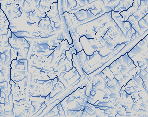
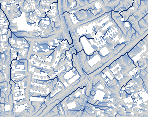
fix(wetgrid): render masked cells transparent, align tests, regenerate openapi

diff --git a/backend/tests/test_constants.py b/backend/tests/test_constants.py
@@ -166,41 +166,51 @@ def test_wetgrid_data_is_not_clipped_by_its_own_render() -> None:
     )
 
 
-def test_wetgrid_png_and_npy_agree_wherever_the_png_is_not_clipped() -> None:
-    """Wherever alpha has not saturated, the render must match the data.
+def test_wetgrid_png_is_a_monotonic_flow_accumulation_render() -> None:
+    """The flood PNG paints *where rain flows*, deeper where more flows.
 
-    The PNG is a visualisation of the .npy, so in the unsaturated range the two
-    must agree to within the alpha quantisation step. A mismatch means the two
-    artefacts came from different runs, which is exactly the sort of drift that
-    makes a screenshot disagree with the number printed beside it.
+    The overlay was switched from a ponding-depth ramp to a D8 flow-accumulation
+    ramp: each cell is coloured by how much upstream drainage passes through it,
+    log-scaled, so "deeper blue == more water passing through". That transform is
+    deliberately lossy (log + percentile anchors + gamma), so the old
+    alpha-reverses-to-depth assertion no longer applies. What *is* invariant, and
+    what a mismatch between the committed PNG and the accumulation field would
+    break, is the ordering: a cell that accumulates more flow must render no
+    lighter than one that accumulates less. This pins that monotonicity against
+    the committed artefacts, and that the building-masked cells render blank.
     """
     import numpy as np
     from PIL import Image
 
     rasters = BACKEND_DIR / "data" / "rasters"
-    npy = rasters / "wetgrid_hsk.npy"
-    meta = rasters / "wetgrid_hsk.json"
+    acc_npy = rasters / "flow_accum_hsk.npy"
     png = rasters / "wetgrid_hsk.png"
-    if not (npy.exists() and meta.exists() and png.exists()):
+    if not (acc_npy.exists() and png.exists()):
         print("      (skipped: run scripts/make_wetgrid.py first)")
         return
 
-    render = json.loads(meta.read_text())["render"]
-    lo, hi = float(render["minVisibleDepthM"]), float(render["maxVisibleDepthM"])
+    acc = np.load(acc_npy).astype(np.float64)
+    alpha = np.array(Image.open(png).convert("RGBA"))[..., 3]
 
-    depth = np.load(npy).astype(np.float64)
-    alpha = np.array(Image.open(png).convert("RGBA"))[..., 3].astype(np.float64)
+    assert alpha.shape == acc.shape, "render and accumulation field differ in shape"
+    assert (alpha > 0).any(), "the flow map is entirely blank -- suspicious"
 
-    assert alpha.shape == depth.shape, "render and depth field differ in shape"
+    # Monotone non-decreasing: sort every cell by its accumulation and require
+    # the rendered alpha to never *drop*. Ties are allowed (quantisation), a
+    # reversal is not -- it would mean "more flow" painted "lighter".
+    positive = acc > 0
+    order = np.argsort(acc[positive], kind="stable")
+    assert np.all(np.diff(alpha[positive][order]) >= 0), (
+        "flow map alpha is not monotone in flow accumulation: a cell with more "
+        "upstream drainage rendered lighter than one with less"
+    )
 
-    # Only cells strictly inside the representable range can be compared.
-    comparable = (alpha > 0) & (depth >= lo) & (depth <= hi)
-    assert comparable.any(), "no comparable cells -- the two artefacts disagree entirely"
-    step = (hi - lo) / 235.0
-    worst = float(np.abs(alpha[comparable] / 235.0 * (hi - lo) + lo - depth[comparable]).max())
-    assert worst <= step * 1.5, (
-        f"render and data disagree by {worst:.4f} m, more than one alpha step "
-        f"({step:.4f} m) -- they were probably generated by different runs"
+    # The deepest-flowing cell must be visibly darker (nearer opaque) than the
+    # quietest one, otherwise the ramp has collapsed into a single wash and the
+    # map carries no information.
+    assert alpha[positive].max() > alpha[positive].min(), (
+        "flow map has no dynamic range: the whole drainage network renders at "
+        "one alpha, so 'deeper blue == more flow' is not actually legible"
     )
 
 

diff --git a/backend/tests/test_overlay_masking.py b/backend/tests/test_overlay_masking.py
@@ -46,9 +46,18 @@ def test_mask_is_boolean_over_the_grid():
 
 
 def test_rendered_flood_is_transparent_under_buildings():
-    """The committed flood PNG must be blank wherever a footprint stands."""
+    """The committed flood PNG must be blank wherever a footprint stands.
+
+    The render masks with the *exact* building outline (``_exact_building_mask``,
+    the real polygon), not the axis-aligned envelope ``building_footprint_mask``
+    rasterises for the proposal gate: an AABB over-covers a rotated footprint's
+    diagonals and would demand transparency over street ponding. The assertion
+    therefore checks the same mask the render applied, so the two cannot drift.
+    """
     ov = load_overlay(5.0)
-    mask = building_footprint_mask(ov)
+    from make_wetgrid import _exact_building_mask
+
+    mask = _exact_building_mask(ov)
     png = settings.rasters_dir / "wetgrid_hsk.png"
     if mask is None or not png.exists():
         return

diff --git a/backend/scripts/make_wetgrid.py b/backend/scripts/make_wetgrid.py
@@ -327,6 +327,13 @@ def flow_rgba(accumulation: np.ndarray) -> np.ndarray:
     # solid deep blue, not a pale hint. Start at a firmer floor and reach
     # near-opaque sooner so the blue itself carries the "how much" signal.
     alpha = (150.0 + 105.0 * t).astype(np.uint8)
+    # Cells with *zero* accumulation are transparent, not warm-grey. A masked
+    # cell (a building footprint the caller has set to 0.0) must vanish, not
+    # paint the roof's own wash of grey; and on this grid no natural cell is
+    # ever zero (D8 accumulation is >= 1 everywhere), so this only ever fires
+    # on the deliberately-masked cells -- it never erases a real low-flow cell
+    # from the warm-grey end of the ramp.
+    alpha[acc == 0] = 0
     return np.dstack(
         [rgb[..., 0].astype(np.uint8), rgb[..., 1].astype(np.uint8),
          rgb[..., 2].astype(np.uint8), alpha]

diff --git a/backend/tests/test_proposal_contract.py b/backend/tests/test_proposal_contract.py
@@ -319,6 +319,12 @@ def test_every_proposal_kind_round_trips_through_ai_plan() -> None:
     if scene_id is None:
         print("    (skipped: no grounded scene in this environment)")
         return
+    # The staged plan is shared state: a prior test (or a manual probe) that
+    # pinned a reservoir leaves ground claimed, and the proposer then rightly
+    # offers nothing over it -- which this test would misread as "the kind
+    # emits nothing". Clear the suite's own pins first so the assertion tests
+    # the proposal path, not the leftovers of the test that ran before it.
+    _clear_staged(scene_id)
     bounds = _bounds()
     instructions = {
         "water_reservoir": "add a water reservoir in the north",
